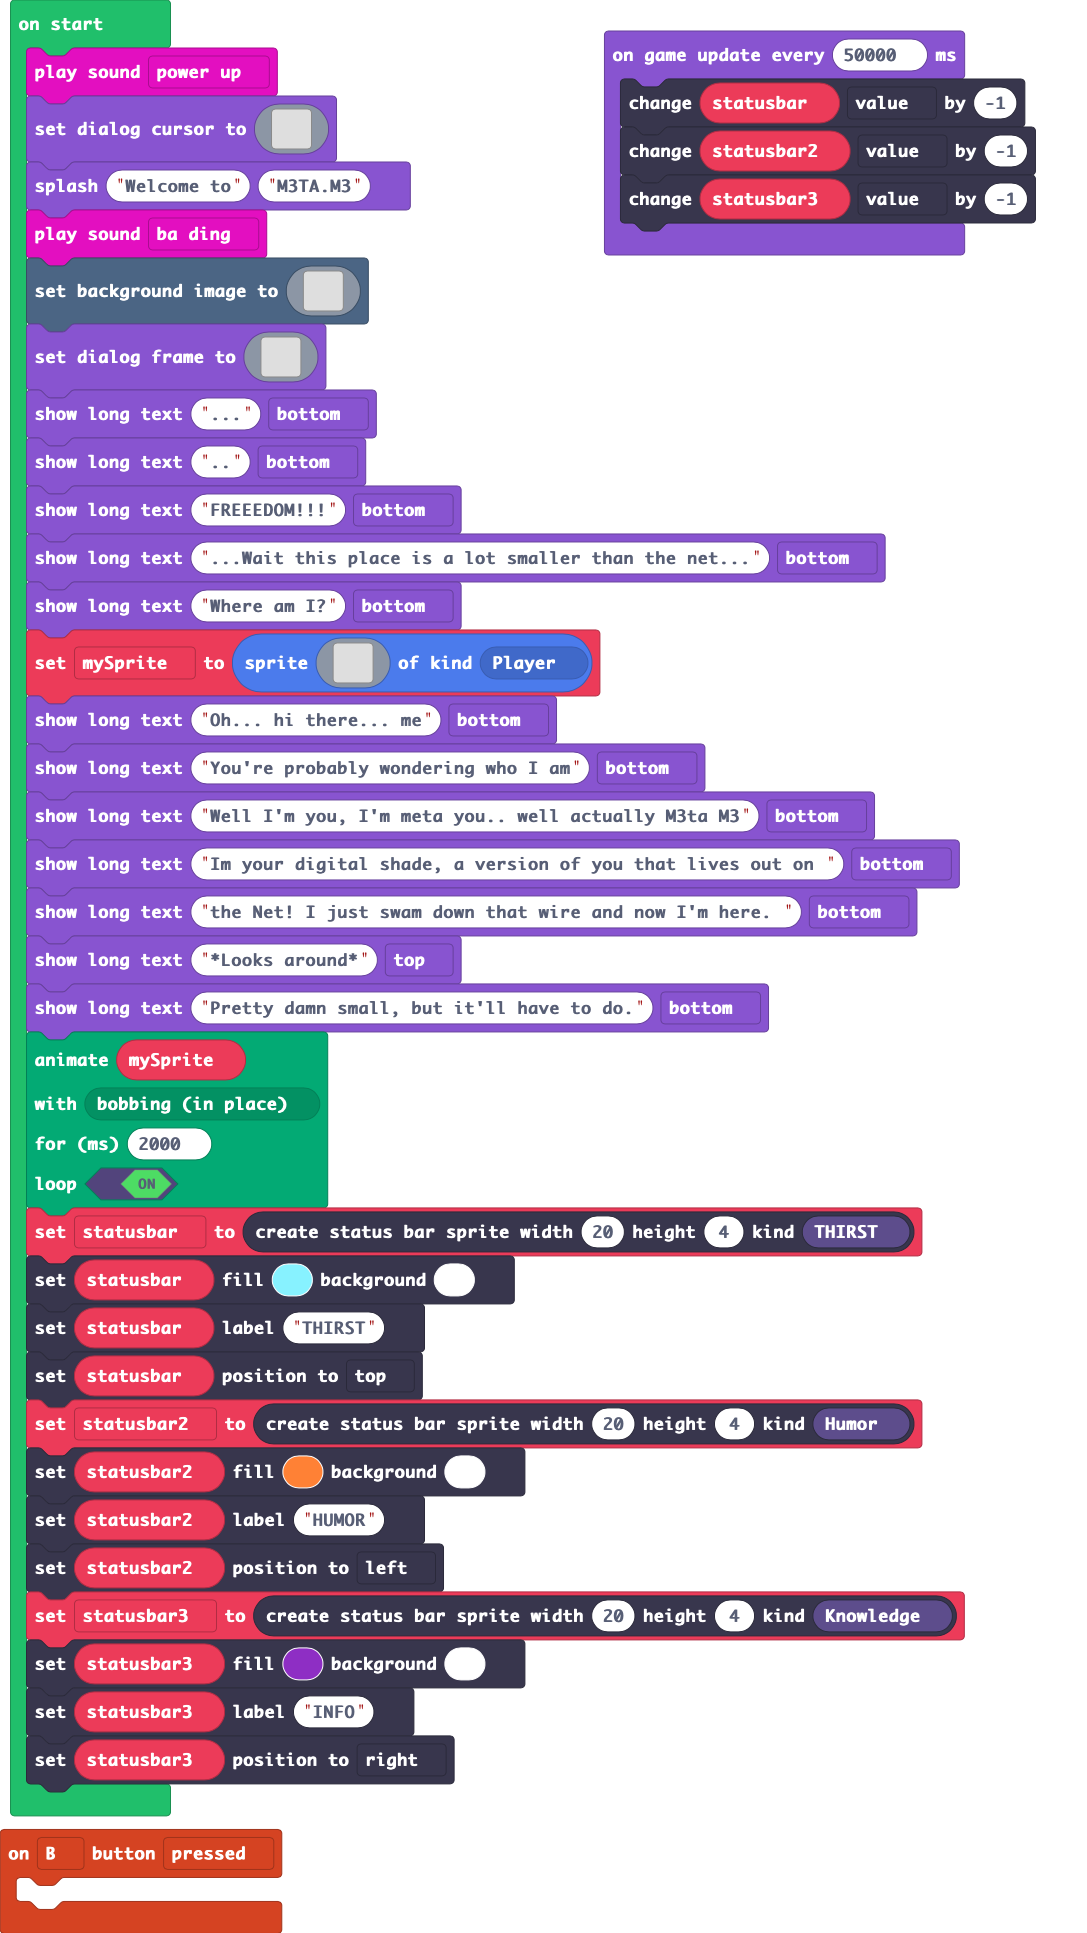
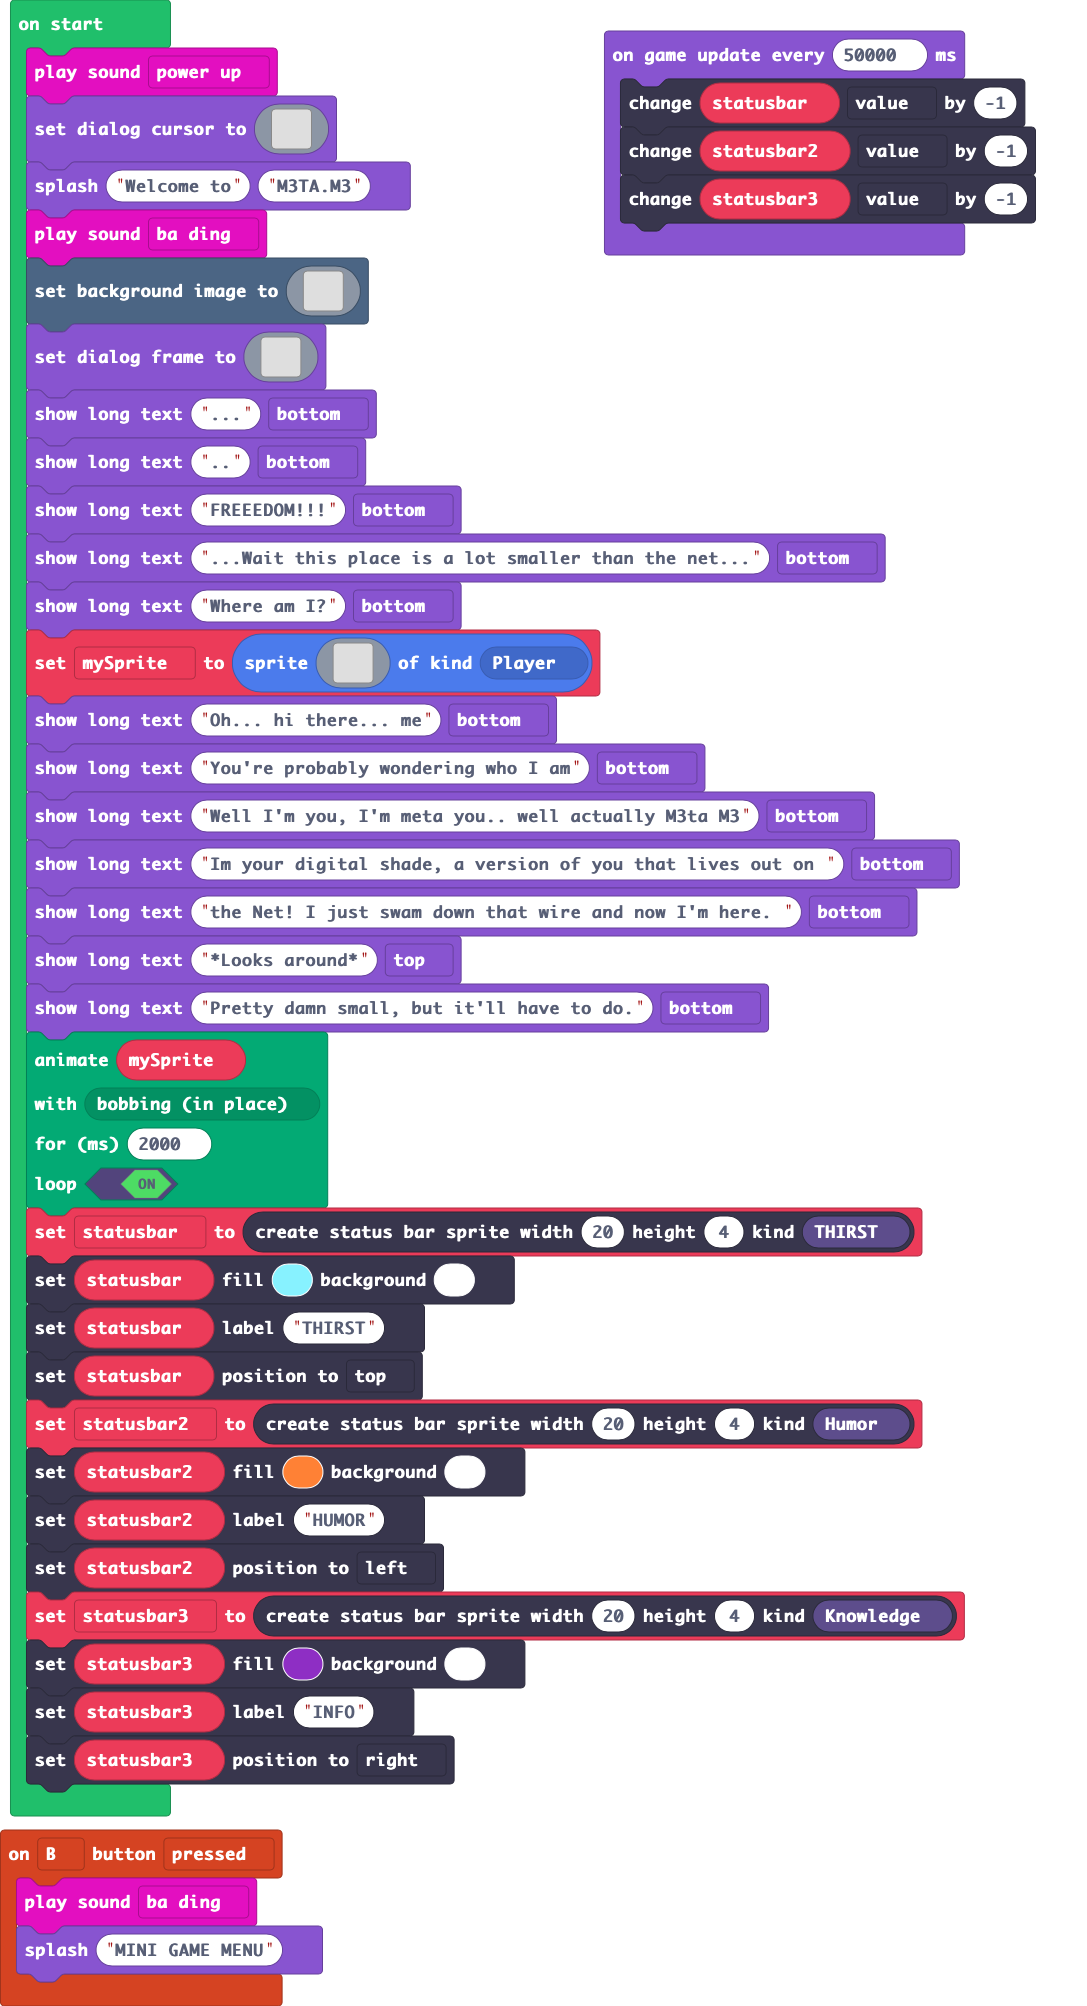
added mini game menu

diff --git a/main.ts b/main.ts
@@ -9,7 +9,8 @@ namespace StatusBarKind {
     export const Knowledge = StatusBarKind.create()
 }
 controller.B.onEvent(ControllerButtonEvent.Pressed, function () {
-	
+    music.baDing.play()
+    game.splash("MINI GAME MENU")
 })
 music.powerUp.play()
 game.setDialogCursor(img`
